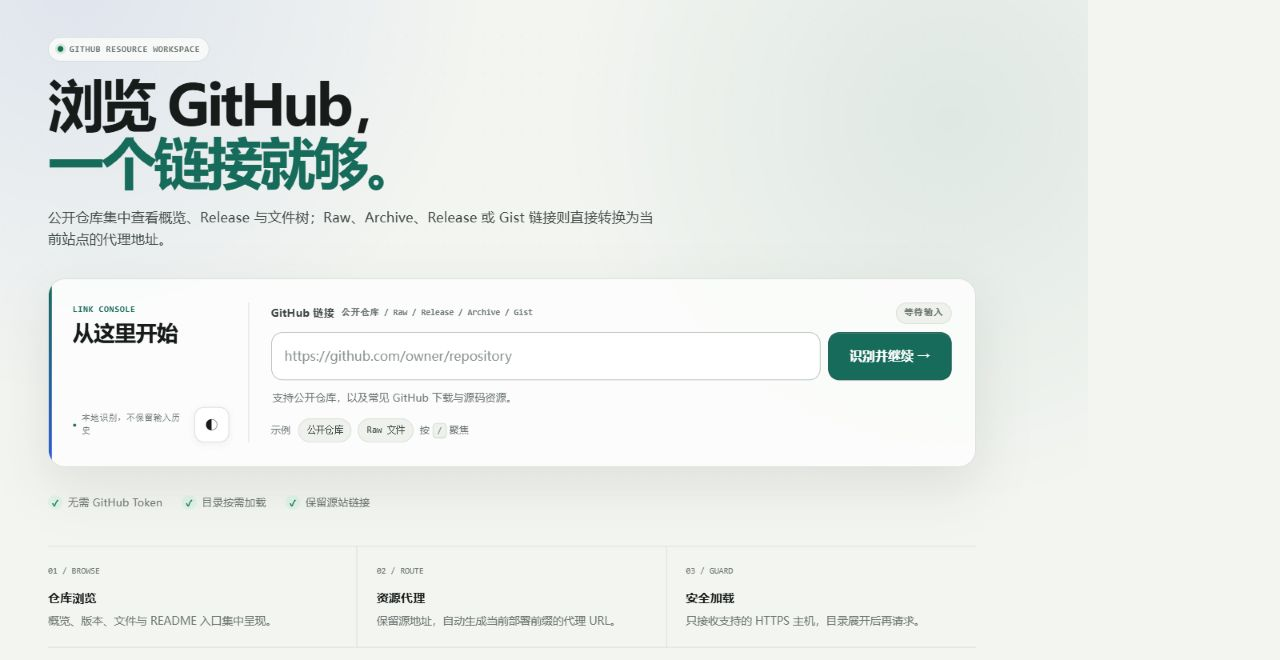
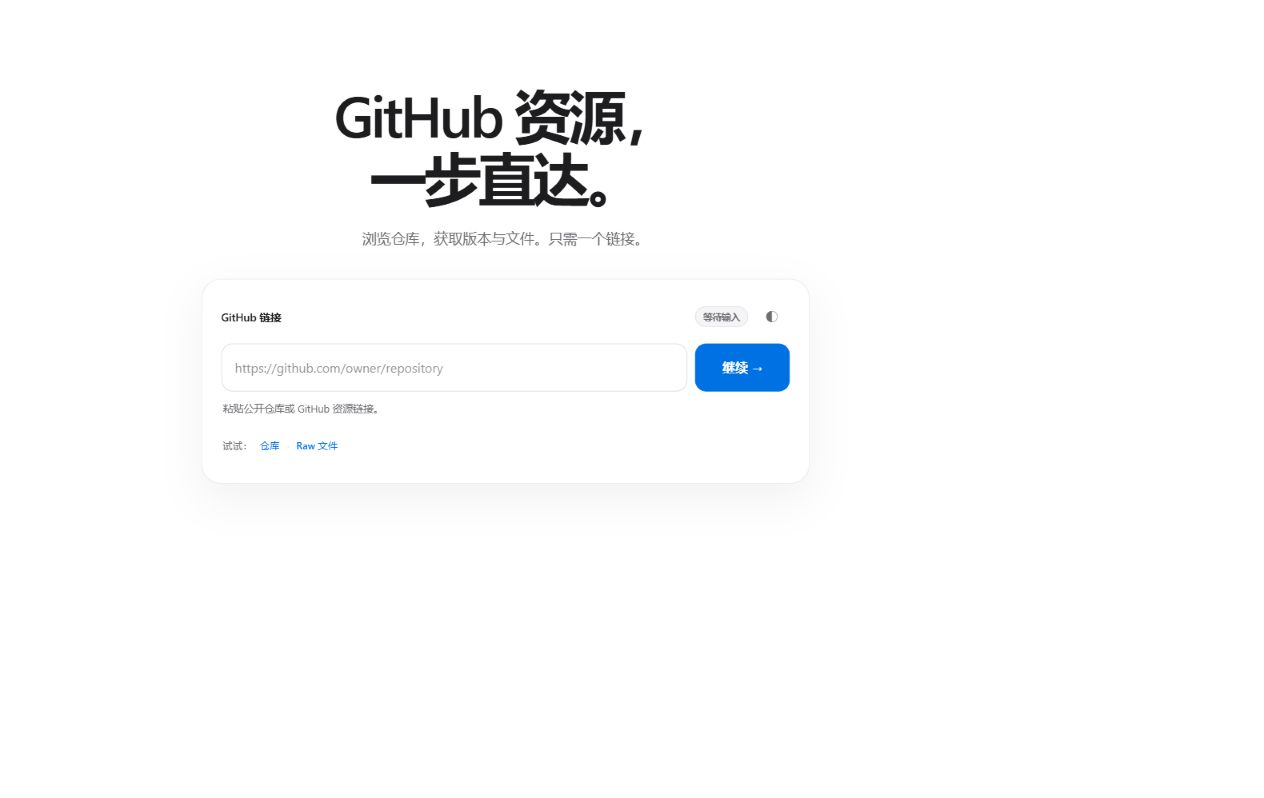
docs: refresh project introduction and homepage preview

diff --git a/README.md b/README.md
@@ -1,53 +1,51 @@
 # Passage
 
-一个链接，浏览 GitHub 仓库，或生成资源代理地址。
+**GitHub 资源，一步直达。**
 
-![Passage 项目界面](./docs/passage-preview.jpg)
+粘贴一个链接，浏览公开仓库，或获取资源代理地址。
+
+![Passage 首页](./docs/passage-preview.jpg)
 
 ## 项目介绍
 
-Passage 是一个运行在 Cloudflare Workers 上的 GitHub 资源工具。它把仓库浏览和资源代理放在同一个页面里：粘贴公开仓库链接，可以查看项目概览、Releases、文件树和 README 入口；粘贴 Raw、Release、Archive 或 Gist 链接，则会生成当前站点的代理地址。
+Passage 是一个运行在 Cloudflare Workers 上的轻量 GitHub 资源工具。仓库概览、Releases、文件目录和 README 入口集中在同一个页面；Raw、Blob、Release、Archive 等资源链接则可直接转换为代理地址。
 
-整个项目只有一个可部署的 `worker.js`。页面、样式、浏览器交互、GitHub API 请求和代理逻辑都包含在这个文件中，不需要安装前端框架或运行时依赖。
+界面采用简洁的单输入框设计，默认浅色，支持深色主题和手机浏览。整个应用包含在一个 `worker.js` 中，无需前端框架、安装依赖或构建步骤。
 
 ## 主要功能
 
-- 自动识别 GitHub 仓库链接和资源链接。
-- 展示仓库描述、Stars、Forks、Issues、语言、默认分支和更新时间。
-- 按版本独立折叠 Releases；版本较多时只默认展开最新版本。
-- 按需展开项目目录，并为文件提供 GitHub、Raw 和代理入口。
-- 提供 README 的 GitHub、Raw 与代理下载入口。
-- 支持 Raw、Blob、Release、Archive、Gist、codeload 和 jsDelivr 资源。
-- 支持浅色、深色主题以及桌面、手机响应式布局。
-- 输入框不显示自动完成记录，并支持 `/` 快速聚焦和 `Esc` 清空。
+- **浏览仓库**：查看描述、Stars、Forks、语言、默认分支和更新时间。
+- **获取版本**：每个 Release 可独立展开；超过 4 个版本时，仅最新版默认展开。
+- **查看文件**：目录按需加载，支持根目录筛选，以及 GitHub、Raw 和代理下载入口。
+- **资源代理**：识别 Raw、Blob、Release、Archive、Gist、codeload 和 jsDelivr 链接，支持复制或直接打开生成的地址。
+- **便捷操作**：复制代理克隆命令，使用 `/` 聚焦输入框、`Esc` 清空输入，不保存输入历史。
+- **减少重复请求**：缓存 GitHub API 数据、合并相同请求，并在限流后暂停访问。
 
-## 使用方式
+## 使用方法
 
-部署后打开 Worker 首页，粘贴链接即可：
+打开部署后的页面，粘贴链接并点击「继续」。
 
-| 链接类型 | 页面行为 |
+| 输入 | 用途 |
 | --- | --- |
-| `https://github.com/owner/repository` | 打开仓库浏览视图 |
-| Raw、Blob、Release、Archive、Gist 链接 | 生成代理地址 |
+| `https://github.com/owner/repository` | 浏览公开仓库 |
+| `https://raw.githubusercontent.com/owner/repository/main/file.txt` | 获取源码文件代理地址 |
+| `https://github.com/owner/repository/releases/download/v1.0.0/app.zip` | 获取 Release 附件代理地址 |
 
-也可以直接把完整资源 URL 放在 Worker 地址之后：
+也可以将完整资源链接直接接在站点地址后：
 
 ```text
 https://your-worker.example/https://raw.githubusercontent.com/owner/repository/main/file.txt
 ```
 
-如果部署前缀为 `/gh/`：
+仓库浏览页面提供 README 的阅读和下载入口，不直接渲染全文。
 
-```text
-https://your-worker.example/gh/https://github.com/owner/repository/releases/download/v1.0.0/app.zip
-```
+## 部署与配置
 
-## 部署
+1. 在 Cloudflare Workers 创建 Worker。
+2. 将本仓库的 `worker.js` 作为完整脚本部署。它使用经典 Service Worker 格式，入口为 `addEventListener("fetch", ...)`，替换模板时请替换整个文件。
+3. 访问 Worker 地址即可使用；如果设置了路径前缀，请访问对应路径。
 
-1. 在 Cloudflare Workers 中创建一个支持经典 Service Worker 脚本的 Worker。
-2. 将本仓库的 `worker.js` 作为完整脚本部署。
-3. 根据需要修改文件顶部的配置。
-4. 访问 Worker 根地址开始使用。
+文件顶部的配置可以按需修改：
 
 ```js
 var Config = {
@@ -59,20 +57,32 @@ var Config = {
 
 | 配置项 | 说明 |
 | --- | --- |
-| `PREFIX` | 部署路径前缀，例如 `/gh/` |
-| `jsdelivr` | 设为 `1` 时，将符合条件的 Blob/Raw 请求转到 jsDelivr |
-| `MAX_REDIRECTS` | 代理最多跟随的重定向次数 |
+| `PREFIX` | 访问路径前缀，默认 `/`，也可设为 `/gh/` |
+| `jsdelivr` | 设为 `1` 时，将符合条件的 Blob、Raw 请求转到 jsDelivr |
+| `MAX_REDIRECTS` | 资源代理最多跟随的重定向次数，默认 `4` |
 
-如需提高 GitHub API 请求配额，可以将 `GITHUB_TOKEN` 配置为 Worker Secret，并使用只读、最小权限的 Token。
+使用 `/gh/` 前缀时，代理地址示例为：
 
-## 本地检查
-
-```powershell
-node --check .\worker.js
+```text
+https://your-worker.example/gh/https://github.com/owner/repository/releases/download/v1.0.0/app.zip
 ```
+
+可选配置 `GITHUB_TOKEN` Worker Secret，用于 GitHub API 认证。仅浏览公开仓库时，无需授予私有仓库访问权限；不要将 Token 写入公开代码。
+
+## 缓存与请求
+
+GitHub API 数据默认缓存 5 分钟，过期后通过条件请求检查更新。同一运行实例内的重复请求会被合并，上游请求按顺序执行。
+
+遇到限流时，服务按 GitHub 返回的时间暂停请求；临时故障时，可显示 30 分钟内的缓存数据并给出提示。这些措施能减少 API 消耗，但不能保证所有访问量下都不会触发限流。
 
 ## 项目文件
 
-- `worker.js`：可直接部署的单文件 Worker。
-- `README.md`：项目介绍和使用说明。
-- `DEVELOPMENT.md`：开发结构与接口说明。
+- `worker.js`：完整应用与部署入口。
+- `docs/passage-preview.jpg`：当前首页截图。
+- `DEVELOPMENT.md`：开发结构与接口参考。
+
+本地语法检查：
+
+```sh
+node --check worker.js
+```
